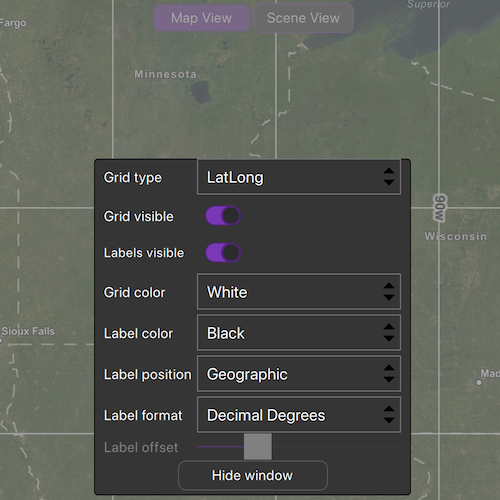
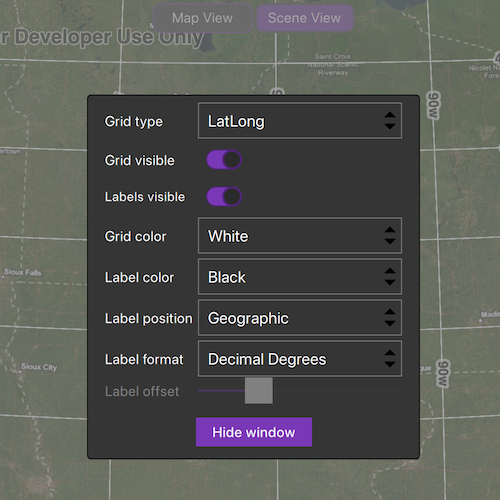
Show grid(Display information) - Switch text contrast fix. Menu padding fix. Button component usage.

diff --git a/CppSamples/DisplayInformation/ShowGrid/ShowGrid.qml b/CppSamples/DisplayInformation/ShowGrid/ShowGrid.qml
@@ -81,6 +81,7 @@ Item {
                 anchors.centerIn: parent
                 text: qsTr("Map View")
                 font.pixelSize: 14
+                color: mapViewButton.selected ? "white" : palette.text
             }
 
             MouseArea {
@@ -110,6 +111,7 @@ Item {
                 anchors.centerIn: parent
                 text: qsTr("Scene View")
                 font.pixelSize: 14
+                color: sceneViewButton.selected ? "white" : palette.text
             }
 
             MouseArea {
@@ -128,9 +130,8 @@ Item {
     }
 
     // Button to view the styling window
-    Rectangle {
+    Button {
         id: styleButton
-        property bool pressed: false
         anchors {
             horizontalCenter: parent.horizontalCenter
             bottom: parent.bottom
@@ -139,27 +140,12 @@ Item {
 
         width: 150
         height: 30
-        color: pressed ? palette.highlight : palette.base
-        radius: 8
-        border {
-            color: "#585858"
-            width: 1
-        }
+        text: qsTr("Change grid style")
+        font.pixelSize: 14
 
-        Label {
-            anchors.centerIn: parent
-            text: qsTr("Change grid style")
-            font.pixelSize: 14
-        }
-
-        MouseArea {
-            anchors.fill: parent
-            onPressed: styleButton.pressed = true
-            onReleased: styleButton.pressed = false
-            onClicked: {
-                background.visible = true;
-                showAnimation.restart()
-            }
+        onClicked: {
+            background.visible = true;
+            showAnimation.restart();
         }
     }
 
@@ -187,8 +173,8 @@ Item {
             horizontalCenter: parent.horizontalCenter
         }
         y: parent.height // initially display below the page
-        height: childrenRect.height
-        width: childrenRect.width
+        height: childrenRect.height + 16
+        width: childrenRect.width + 16
 
         color: palette.base
         radius: 4
@@ -207,9 +193,11 @@ Item {
             NumberAnimation { target: styleWindow; property: "y"; to: root.height; duration: 200 }
         }
 
+
         GridLayout {
             id: grid
             columns: 2
+            anchors.centerIn: parent
 
             Label {
                 Layout.leftMargin: 10
@@ -417,37 +405,28 @@ Item {
                 }
             }
 
+            // Spacer
+            Item {
+                height: 8
+                Layout.fillWidth: true
+                Layout.columnSpan: 2
+            }
+
             // Button to hide the styling window
-            Rectangle {
+            Button {
                 id: hideButton
-                property bool pressed: false
                 Layout.alignment: Qt.AlignHCenter
                 Layout.columnSpan: 2
                 Layout.bottomMargin: 5
 
                 width: 150
                 height: 30
-                color: pressed ? palette.highlight : palette.base
-                radius: 8
-                border {
-                    color: "#585858"
-                    width: 1
-                }
+                text: qsTr("Hide window")
+                font.pixelSize: 14
 
-                Label {
-                    anchors.centerIn: parent
-                    text: qsTr("Hide window")
-                    font.pixelSize: 14
-                }
-
-                MouseArea {
-                    anchors.fill: parent
-                    onPressed: hideButton.pressed = true
-                    onReleased: hideButton.pressed = false
-                    onClicked: {
-                        background.visible = false;
-                        hideAnimation.restart();
-                    }
+                onClicked: {
+                    background.visible = false;
+                    hideAnimation.restart();
                 }
             }
         }
